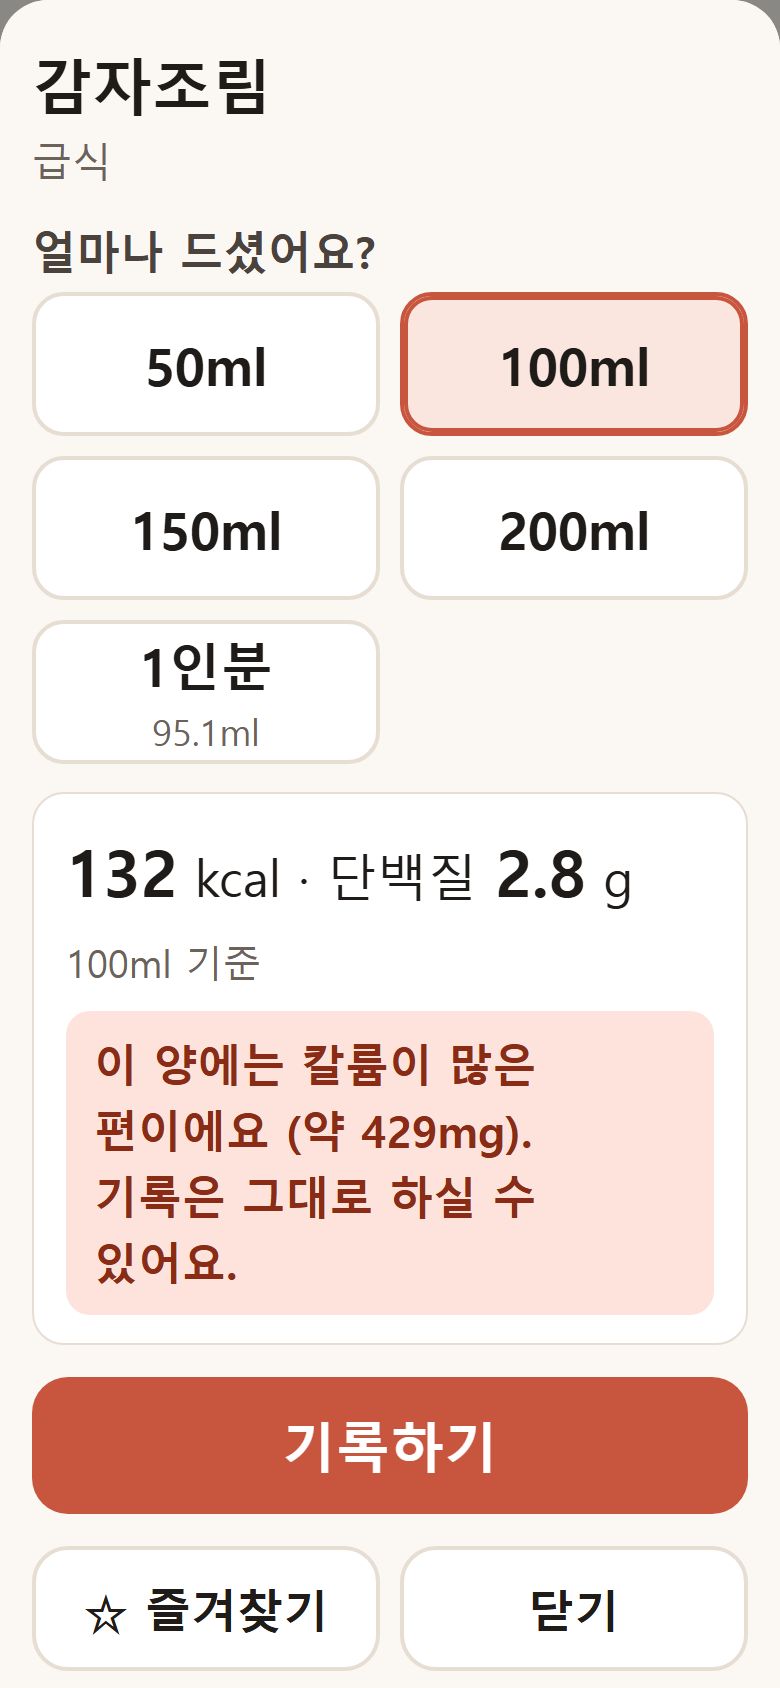
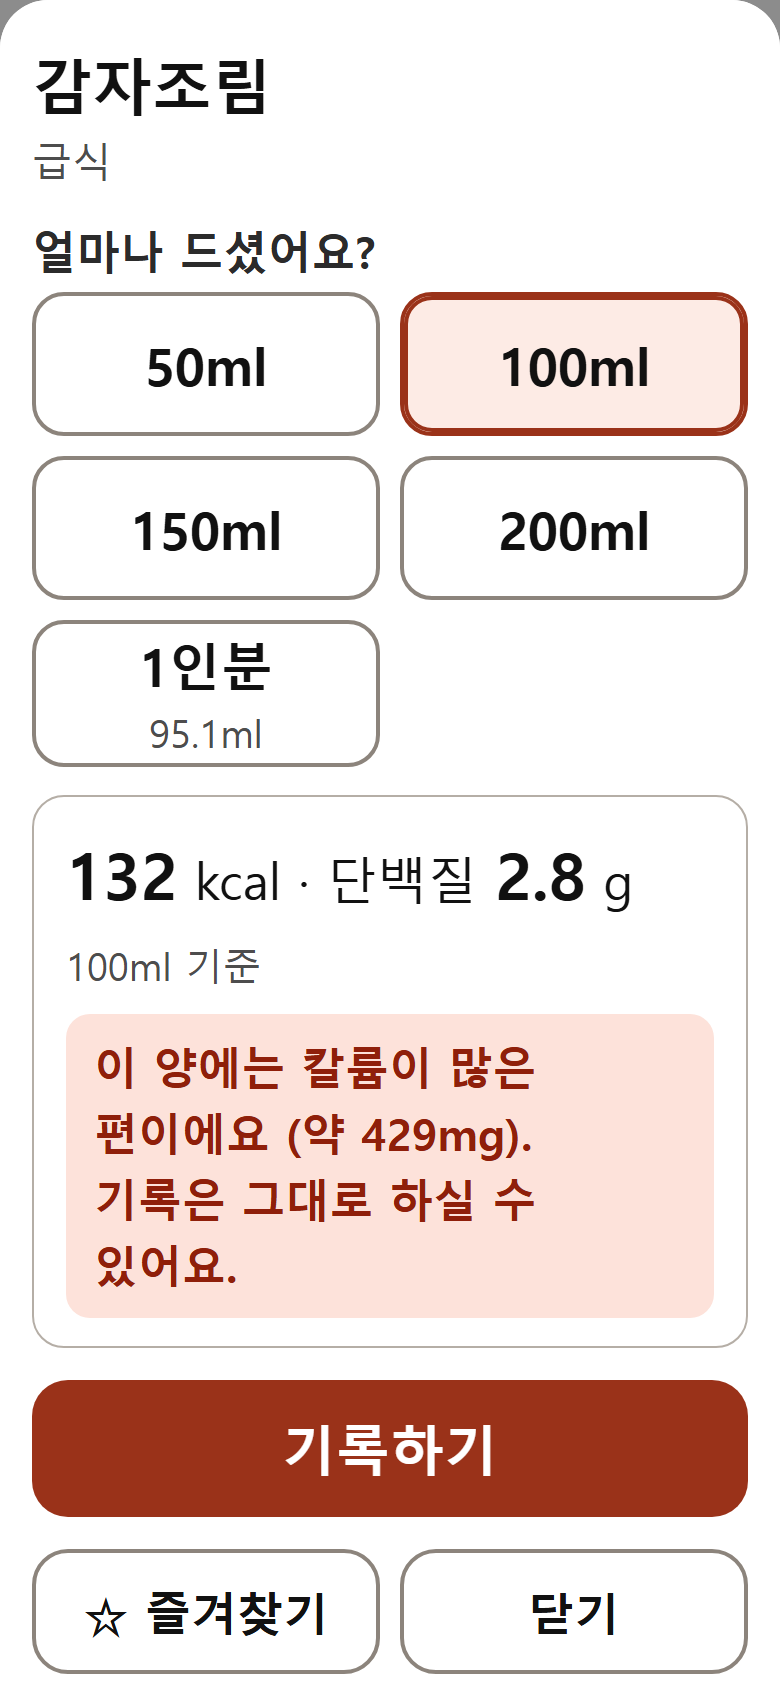
밝은 테마로 변경
- 항상 밝은 화면: 다크 모드 색 제거, color-scheme을 only light로 해서 폰이 다크 모드여도 어둡게 바뀌지 않게 함
- 흰 배경에 진한 글씨, 모든 글자 대비 7:1 이상 (버튼 색도 더 진하게)
- 칼륨 알림, 칭찬 문구, 목표 표시 색을 밝은 배경 기준으로 조정
- 버튼·입력칸 테두리를 진하게(3:1 이상), 선택된 하단 메뉴에 배경색 추가
- 글씨·버튼 크기는 그대로
- 다크 모드 강제 상태 스크린샷 추가, 서비스 워커 VERSION v3

diff --git a/app.css b/app.css
@@ -1,31 +1,25 @@
 :root {
-  --bg: #fbf7f2;
+  /* 항상 밝은 화면. 글자 대비는 모두 7:1 이상, 버튼·입력칸 테두리는 3:1 이상 */
+  --bg: #ffffff;
   --surface: #ffffff;
-  --ink: #1f1b18;
-  --ink-2: #4a423c;
-  --muted: #6b625a;
-  --line: #e6ddd3;
-  --accent: #c8553d;
+  --ink: #111111;
+  --ink-2: #2b2b2b;
+  --muted: #4d4d4d;
+  --line: #b5aea6;      /* 카드·목록 구분선 */
+  --control: #8c847c;   /* 버튼·입력칸 테두리 */
+  --grid: #d6d0ca;      /* 그래프 눈금선 */
+  --accent: #9a3219;
   --accent-ink: #ffffff;
-  --accent-soft: #fbe6df;
-  --chart-line: #2f6f8f;
-  --goal-band: #d8ecd9;
-  --goal-ink: #2e6b35;
-  --k-low-bg: #e3f1e4;   --k-low: #245c2b;
-  --k-mid-bg: #fdf1d6;   --k-mid: #6d4f00;
-  --k-high-bg: #fde3dc;  --k-high: #8a2b16;
-  --k-unk-bg: #ececec;   --k-unk: #444444;
-  color-scheme: light;
-}
-@media (prefers-color-scheme: dark) {
-  :root:not([data-theme="light"]) {
-    --bg: #1b1816; --surface: #26221f; --ink: #f4eee8; --ink-2: #ddd4cb; --muted: #b3a89d;
-    --line: #3d3631; --accent: #e07a62; --accent-ink: #1b1816; --accent-soft: #3a2621;
-    --chart-line: #7fbfdc; --goal-band: #233a26; --goal-ink: #9fd6a5;
-    --k-low-bg: #1f3522; --k-low: #a8dcae; --k-mid-bg: #3a3017; --k-mid: #f0d590;
-    --k-high-bg: #43221a; --k-high: #f6b2a0; --k-unk-bg: #333; --k-unk: #ddd;
-    color-scheme: dark;
-  }
+  --accent-soft: #fdebe5;
+  --chart-line: #1d5f80;
+  --goal-band: #d9efdc;
+  --goal-ink: #1b5524;
+  --k-low-bg: #e2f2e4;   --k-low: #14501f;
+  --k-mid-bg: #fff1cc;   --k-mid: #5c4000;
+  --k-high-bg: #fde2da;  --k-high: #8f1f0a;
+  --k-unk-bg: #ececec;   --k-unk: #333333;
+  /* 폰이 다크 모드여도 브라우저가 화면을 어둡게 바꾸지 않도록 */
+  color-scheme: only light;
 }
 
 * { box-sizing: border-box; }
@@ -57,8 +51,8 @@ p { margin: 0 0 8px; }
 .top h1 { margin: 8px 0; }
 .date { font-size: 1.2rem; font-weight: 700; margin: 0; }
 .settings-link {
-  color: var(--muted); font-size: 1rem; text-decoration: none;
-  padding: 10px 14px; border: 2px solid var(--line); border-radius: 12px; min-height: 48px;
+  color: var(--ink-2); font-size: 1rem; text-decoration: none;
+  padding: 10px 14px; border: 2px solid var(--control); border-radius: 12px; min-height: 48px;
   display: inline-flex; align-items: center;
 }
 
@@ -69,7 +63,7 @@ p { margin: 0 0 8px; }
 }
 
 .card {
-  background: var(--surface); border: 1px solid var(--line); border-radius: 20px;
+  background: var(--surface); border: 2px solid var(--line); border-radius: 20px;
   padding: 20px; margin-bottom: 16px;
 }
 .label { font-size: 1.1rem; color: var(--ink-2); font-weight: 600; margin-bottom: 4px; }
@@ -95,7 +89,7 @@ p { margin: 0 0 8px; }
   border: 2px solid transparent;
 }
 .btn-primary { background: var(--accent); color: var(--accent-ink); margin: 16px 0 8px; }
-.btn-secondary { background: var(--surface); color: var(--ink); border-color: var(--line); margin: 8px 0; font-size: 1.15rem; min-height: 60px; }
+.btn-secondary { background: var(--surface); color: var(--ink); border-color: var(--control); margin: 8px 0; font-size: 1.15rem; min-height: 60px; }
 .btn-text {
   background: none; border: none; color: var(--muted); font: inherit; font-size: 1rem;
   text-decoration: underline; padding: 12px 8px; min-height: 48px; cursor: pointer;
@@ -105,7 +99,7 @@ button:focus-visible, a:focus-visible, input:focus-visible { outline: 3px solid 
 .chips { display: flex; flex-wrap: wrap; gap: 10px; margin: 6px 0 8px; }
 .chip {
   min-height: 56px; padding: 8px 18px; border-radius: 28px; font: inherit; font-size: 1.15rem;
-  background: var(--surface); color: var(--ink); border: 2px solid var(--line); cursor: pointer;
+  background: var(--surface); color: var(--ink); border: 2px solid var(--control); cursor: pointer;
 }
 .chip.on { background: var(--accent); color: var(--accent-ink); border-color: var(--accent); font-weight: 700; }
 .chips.small .chip { min-height: 48px; font-size: 1rem; padding: 6px 14px; }
@@ -113,7 +107,7 @@ button:focus-visible, a:focus-visible, input:focus-visible { outline: 3px solid 
 /* 그래프 */
 .chart-box { position: relative; margin-top: 12px; }
 .chart { display: block; width: 100%; height: auto; touch-action: pan-y; }
-.chart .grid { stroke: var(--line); stroke-width: 1; }
+.chart .grid { stroke: var(--grid); stroke-width: 1; }
 .chart .tick { fill: var(--muted); font-size: 16px; }
 .chart .goal-band { fill: var(--goal-band); }
 .chart .goal-label { fill: var(--goal-ink); font-size: 16px; font-weight: 700; }
@@ -136,13 +130,13 @@ button:focus-visible, a:focus-visible, input:focus-visible { outline: 3px solid 
 }
 .search {
   width: 100%; min-height: 64px; padding: 12px 16px; font: inherit; font-size: 1.25rem;
-  border: 2px solid var(--line); border-radius: 16px; background: var(--surface); color: var(--ink);
+  border: 2px solid var(--control); border-radius: 16px; background: var(--surface); color: var(--ink);
 }
 .results, .list, .serv-list { list-style: none; padding: 0; margin: 8px 0 0; }
 .result {
   display: block; width: 100%; text-align: left; min-height: 64px; padding: 12px 14px;
   font: inherit; font-size: 1.2rem; color: var(--ink); background: var(--surface);
-  border: 1px solid var(--line); border-radius: 14px; margin-bottom: 8px; cursor: pointer;
+  border: 2px solid var(--control); border-radius: 14px; margin-bottom: 8px; cursor: pointer;
 }
 .rest { display: block; color: var(--muted); font-size: 1rem; font-weight: 400; }
 .list li {
@@ -173,10 +167,10 @@ button:focus-visible, a:focus-visible, input:focus-visible { outline: 3px solid 
 .amounts { display: grid; grid-template-columns: 1fr 1fr; gap: 10px; }
 .amount {
   min-height: 72px; border-radius: 16px; font: inherit; font-size: 1.3rem; font-weight: 700;
-  background: var(--surface); color: var(--ink); border: 2px solid var(--line); cursor: pointer;
+  background: var(--surface); color: var(--ink); border: 2px solid var(--control); cursor: pointer;
   display: flex; flex-direction: column; align-items: center; justify-content: center;
 }
-.amount small { font-size: 0.9rem; font-weight: 400; color: var(--muted); }
+.amount small { font-size: 0.95rem; font-weight: 400; color: var(--muted); }
 .amount.on { border-color: var(--accent); background: var(--accent-soft); box-shadow: inset 0 0 0 2px var(--accent); }
 .result-box { background: var(--surface); border-radius: 16px; padding: 14px 16px; margin-top: 14px; border: 1px solid var(--line); }
 .result-box p:first-child { font-size: 1.25rem; }
@@ -189,12 +183,12 @@ button:focus-visible, a:focus-visible, input:focus-visible { outline: 3px solid 
 
 input[type="number"], .date-input {
   font: inherit; font-size: 1.15rem; padding: 8px 10px; min-height: 52px; width: 6.5em;
-  border: 2px solid var(--line); border-radius: 12px; background: var(--surface); color: var(--ink);
+  border: 2px solid var(--control); border-radius: 12px; background: var(--surface); color: var(--ink);
 }
 .date-input { width: 100%; margin-bottom: 8px; }
 .text-input {
   width: 100%; font: inherit; font-size: 1.15rem; padding: 8px 12px; min-height: 52px;
-  border: 2px solid var(--line); border-radius: 12px; background: var(--surface); color: var(--ink);
+  border: 2px solid var(--control); border-radius: 12px; background: var(--surface); color: var(--ink);
 }
 .goal-line a { color: var(--accent); font-weight: 700; }
 
@@ -202,7 +196,7 @@ input[type="number"], .date-input {
 .stepper { display: flex; align-items: center; gap: 8px; margin: 6px 0 14px; }
 .step {
   width: 64px; height: 64px; flex: none; border-radius: 50%; font-size: 2rem; line-height: 1;
-  background: var(--surface); color: var(--ink); border: 2px solid var(--line); cursor: pointer;
+  background: var(--surface); color: var(--ink); border: 2px solid var(--control); cursor: pointer;
 }
 .kg-input { flex: 1; min-width: 0; display: flex; align-items: center; justify-content: center; gap: 4px; }
 .kg-input input {
@@ -226,14 +220,14 @@ input::-webkit-outer-spin-button, input::-webkit-inner-spin-button { -webkit-app
 .tabbar {
   position: fixed; left: 0; right: 0; bottom: 0; z-index: 10;
   display: grid; grid-template-columns: repeat(3, 1fr);
-  background: var(--surface); border-top: 1px solid var(--line);
+  background: var(--surface); border-top: 2px solid var(--line);
   padding-bottom: env(safe-area-inset-bottom);
 }
 .tabbar a {
   display: flex; align-items: center; justify-content: center; min-height: 76px;
-  font-size: 1.3rem; font-weight: 700; color: var(--muted); text-decoration: none;
+  font-size: 1.3rem; font-weight: 700; color: var(--ink-2); text-decoration: none;
 }
-.tabbar a.on { color: var(--accent); box-shadow: inset 0 4px 0 var(--accent); }
+.tabbar a.on { color: var(--accent); background: var(--accent-soft); box-shadow: inset 0 5px 0 var(--accent); }
 
 .toast {
   position: fixed; left: 50%; bottom: calc(96px + env(safe-area-inset-bottom)); transform: translateX(-50%);

diff --git a/index.html b/index.html
@@ -4,7 +4,8 @@
   <meta charset="utf-8">
   <meta name="viewport" content="width=device-width, initial-scale=1, viewport-fit=cover">
   <title>엄마 식사 기록</title>
-  <meta name="theme-color" content="#c8553d">
+  <meta name="theme-color" content="#ffffff">
+  <meta name="color-scheme" content="only light">
   <link rel="manifest" href="manifest.webmanifest">
   <link rel="icon" href="icons/icon-192.png">
   <link rel="apple-touch-icon" href="icons/icon-192.png">

diff --git a/sw.js b/sw.js
@@ -1,6 +1,6 @@
 // 인터넷이 없어도 열리도록 앱 파일과 음식 데이터를 모두 저장해 둔다.
 // 파일을 바꾸면 VERSION 을 올려야 폰에 새 버전이 받아진다.
-const VERSION = 'mom-meal-v2';
+const VERSION = 'mom-meal-v3';
 const FILES = [
   './',
   './index.html',

diff --git a/tools/screenshots.py b/tools/screenshots.py
@@ -18,7 +18,10 @@ SHOTS = {
     "5-weight": "weight",
     "6-settings": "settings",
     "7-empty-home": None,                                       # 기록이 하나도 없을 때
+    "8-home-dark-mode-phone": "home",                           # 폰이 다크 모드일 때도 밝게 보이는지
 }
+# 폰 다크 모드 + 브라우저의 '웹페이지 자동 어둡게' 기능을 켠 상태
+DARK_FLAGS = ["--force-dark-mode", "--enable-features=WebContentsForceDark"]
 
 
 def main(out_dir):
@@ -31,7 +34,8 @@ def main(out_dir):
         url = f"{base}/tests/frame.html?w={W}&h={H}&src=" + urllib.parse.quote(inner, safe="")
         png = out / (name + ".png")
         with tempfile.TemporaryDirectory() as prof:
-            run_browser([f"--window-size=600,{H + 200}", "--force-device-scale-factor=2",
+            extra = DARK_FLAGS if "dark-mode" in name else []
+            run_browser([*extra, f"--window-size=600,{H + 200}", "--force-device-scale-factor=2",
                          "--virtual-time-budget=10000", f"--screenshot={png}", url], prof)
         Image.open(png).crop((0, 0, W * 2, H * 2)).save(png)
         print(png)

diff --git a/README.md b/README.md
@@ -7,6 +7,8 @@
 
 스크린샷의 체중·목표·식사 기록은 화면 확인용 가상의 예시 값입니다(`tests/seed.html`).
 
+항상 밝은 화면(흰 배경, 진한 글씨)으로 보입니다. 글자 대비는 모두 7:1 이상이고, 폰이 다크 모드여도 어둡게 바뀌지 않습니다(`docs/screenshots/8-home-dark-mode-phone.png`).
+
 | 홈 | 음식 찾기 | 양 고르기 (칼륨 많음) | 칼륨 정보 없음 | 체중 | 설정 |
 |---|---|---|---|---|---|
 | ![](docs/screenshots/1-home.png) | ![](docs/screenshots/2-meal-search.png) | ![](docs/screenshots/3-amount-sheet.png) | ![](docs/screenshots/4-amount-no-potassium.png) | ![](docs/screenshots/5-weight.png) | ![](docs/screenshots/6-settings.png) |
